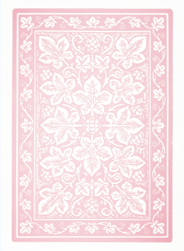
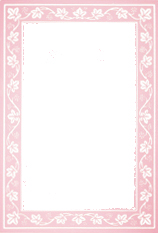
new card background with adjusted css for all deck views

diff --git a/app/assets/stylesheets/custom.css.scss b/app/assets/stylesheets/custom.css.scss
@@ -144,6 +144,7 @@ p.cardBody{
   letter-spacing: 0px;
   margin-bottom: 0px;
   font-weight: bold;
+  padding:20px;
 }
 p.cardBody2{
   font-size: 1.2em;
@@ -217,7 +218,8 @@ table.questionCard{
   border: 1px solid black;
   background-image:url('simplecard.jpg');
   background-repeat:no-repeat;
-  width: 400px;
+  background-origin: border-box;
+  width: 348px;
   height: 300px;
   text-align: center;
   vertical-align: middle;
@@ -227,7 +229,7 @@ table.answerCard{
  border: 1px solid black;
   background-image:url('simplecard.jpg');
   background-repeat:no-repeat;
-  width: 400px;
+  width: 348px;
   height: 300px;
   text-align: center;
   vertical-align: middle;

diff --git a/db/schema.rb b/db/schema.rb
@@ -14,10 +14,10 @@
 ActiveRecord::Schema.define(version: 20131008164900) do
 
   create_table "cards", force: true do |t|
-    t.integer  "card_id",  default: 0,     null: false
-    t.integer  "deck_id",  default: 0,     null: false
-    t.string   "qtext",                    null: false
-    t.string   "atext",                    null: false 
+    t.integer "card_id", default: 0, null: false
+    t.integer "deck_id", default: 0, null: false
+    t.string  "qtext",               null: false
+    t.string  "atext",               null: false
   end
 
   create_table "courses", force: true do |t|
@@ -27,37 +27,28 @@ ActiveRecord::Schema.define(version: 20131008164900) do
     t.string  "name"
   end
 
-  create_table "decks", force: true do |t|
-    t.integer "deck_id",        default: 0, null: false
-    t.string  "deckTitle",                  null: false
-    t.integer "uses",           default: 0, null: false
-    t.integer "user_id",        default: 0, null: false
-    t.string  "courseName"
-    t.integer "course_id"
-    t.string  "courseNum"
-    t.string  "subjectName",                null: false
-    t.integer "subject_id",     default: 0, null: false
-    t.string  "remember_token"
-    t.datetime "created_on"
-  end
-
-
-  create_table "saved_decks", force: true do |t|
-    t.integer "user_id", null: false
-    t.integer "deck_id", null: false
-    t.integer "card_id", null: false
-    t.integer "fav_id",  null: false
-  end
-
   create_table "deckratings", force: true do |t|
-    t.integer  "deckrating_id",              null: false
-    t.integer  "deck_id",                    null: false
-    t.integer  "user_id",                    null: false
-    t.boolean  "liked",      default: false
+    t.integer  "deckrating_id",                 null: false
+    t.integer  "deck_id",                       null: false
+    t.integer  "user_id",                       null: false
+    t.boolean  "liked",         default: false
     t.datetime "created_at"
   end
 
- 
+  create_table "decks", force: true do |t|
+    t.integer  "deck_id",        default: 0, null: false
+    t.string   "deckTitle",                  null: false
+    t.integer  "uses",           default: 0, null: false
+    t.integer  "user_id",        default: 0, null: false
+    t.string   "courseName"
+    t.integer  "course_id"
+    t.string   "courseNum"
+    t.string   "subjectName",                null: false
+    t.integer  "subject_id",     default: 0, null: false
+    t.string   "remember_token"
+    t.datetime "created_on"
+  end
+
   create_table "recent_decks", force: true do |t|
     t.integer  "user_id",  null: false
     t.integer  "deck_id",  null: false
@@ -67,6 +58,13 @@ ActiveRecord::Schema.define(version: 20131008164900) do
 
   create_table "results", force: true do |t|
     t.integer "deck_id", null: false
+  end
+
+  create_table "saved_decks", force: true do |t|
+    t.integer "user_id", null: false
+    t.integer "deck_id", null: false
+    t.integer "card_id", null: false
+    t.integer "fav_id",  null: false
   end
 
   create_table "subjects", force: true do |t|

diff --git a/app/controllers/cards_controller.rb b/app/controllers/cards_controller.rb
@@ -71,8 +71,11 @@ def destroy
     @card = Card.find(params[:id])
     @deckID = @card.deck_id
     @card.destroy
+   
+
     flash[:success] = "Card deleted."
     redirect_to new_card_path(:deck =>@deckID)
+  
 end
 
 

diff --git a/app/models/card.rb b/app/models/card.rb
@@ -10,6 +10,7 @@ class Card < ActiveRecord::Base
 
 		has_one  :deck
 		validates :atext, :qtext, presence: true
+		validates_length_of :atext, :qtext, :maximum => 255
  
         
  	after_create :do_setID
